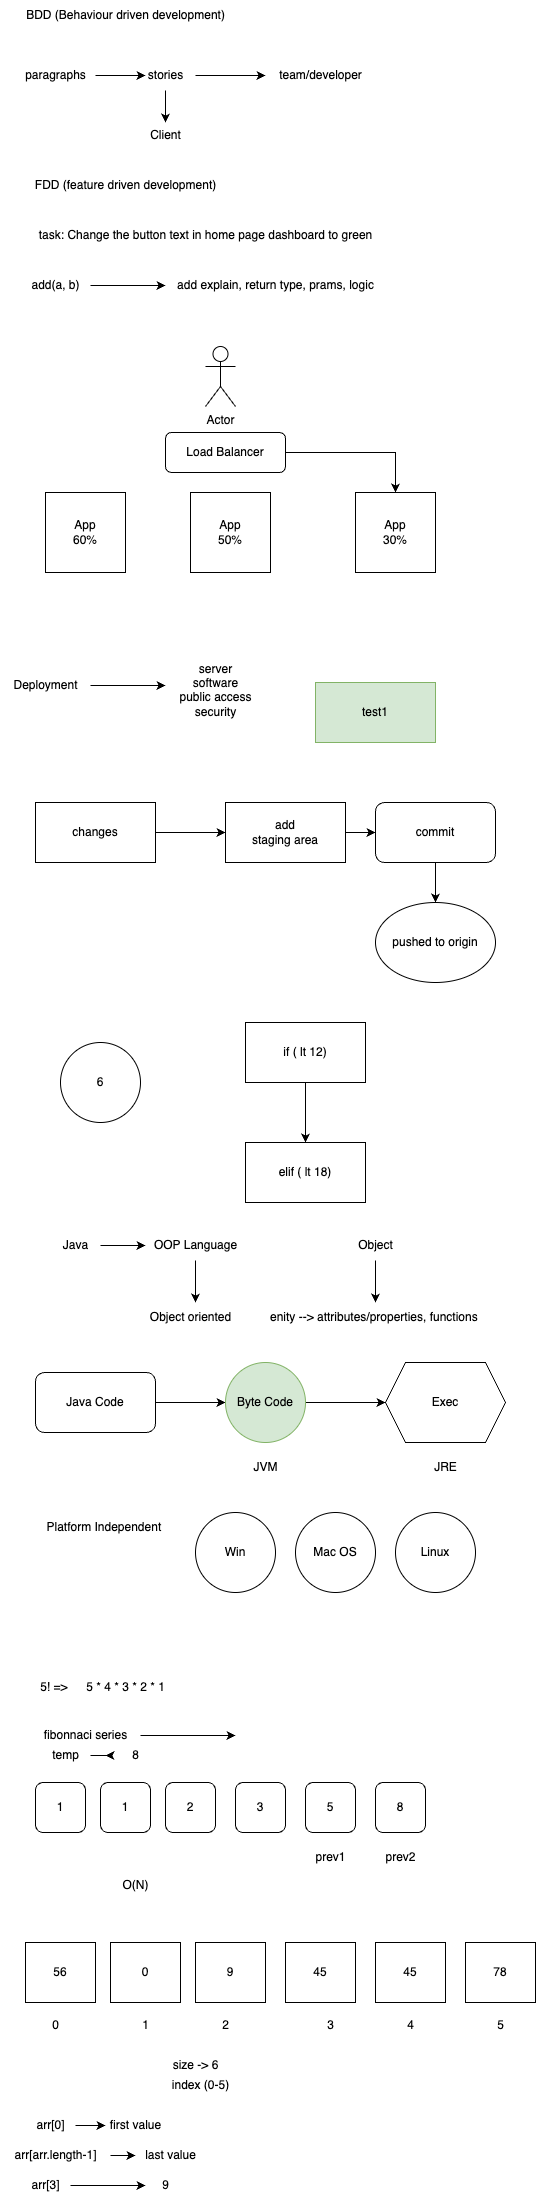
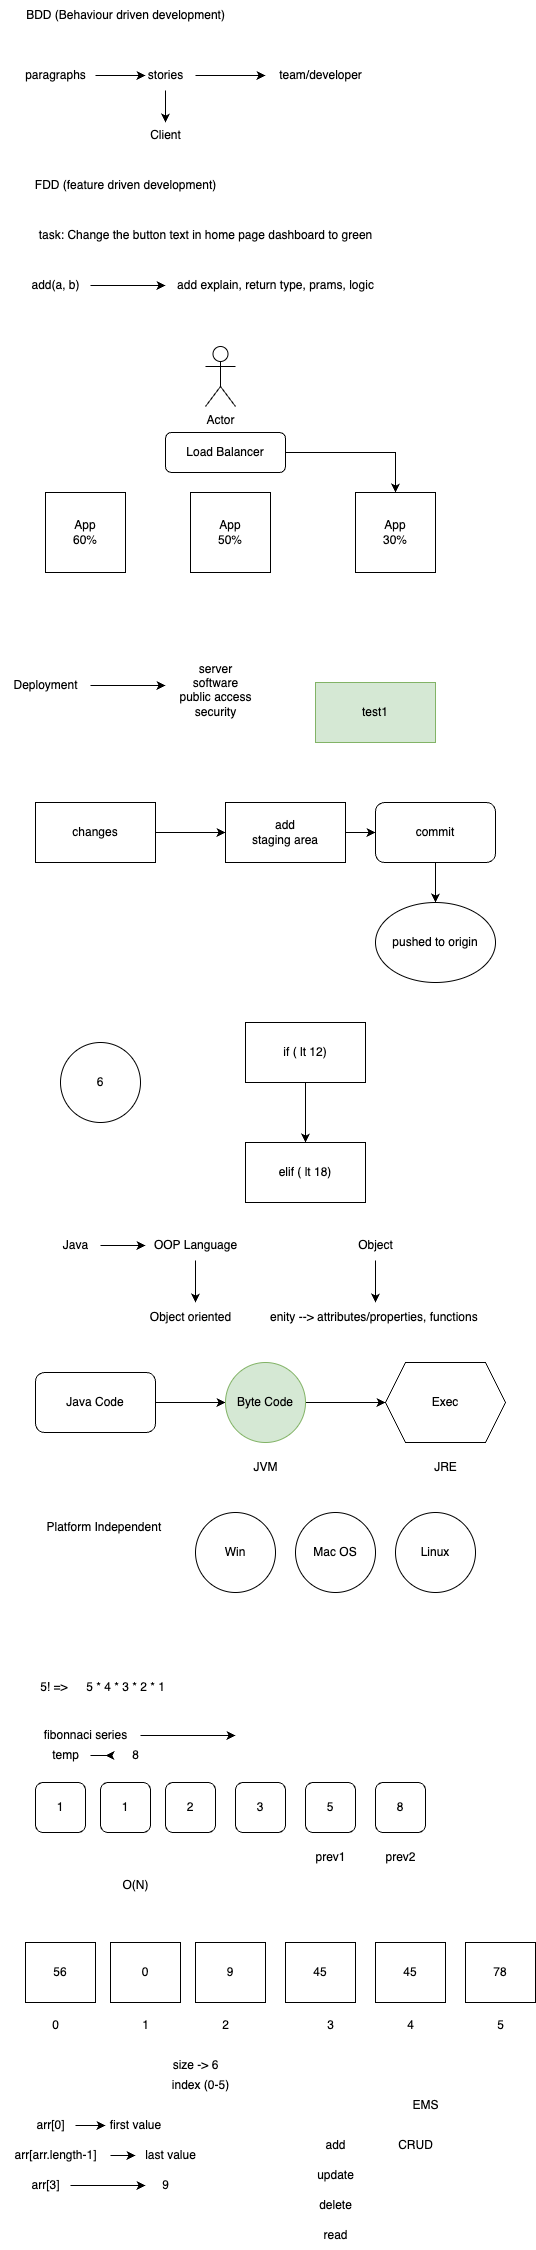
EMS, list, oops done

diff --git a/java practice/Collections/EMS/runner.java b/java practice/Collections/EMS/runner.java
@@ -1,0 +1,46 @@
+package Collections.EMS;
+
+import java.io.IOException;
+import java.util.ArrayList;
+import java.util.List;
+
+public class runner {
+    runner() {
+
+    }
+    public static void main(String[] args) throws IOException {
+        List<emp> list = new ArrayList<>();
+        console con = new console();
+        Listdb db = new Listdb();
+        while (true) {
+            switch (con.showOptions()) {
+                case 1:
+                    db.getAllEmp(list);
+                    break;
+                case 2:
+                    emp e = con.acceptEmp();
+                    boolean inserted = db.addEmp(list, e);
+                    if(inserted) {
+                        System.out.println("Employee inserted successfully");
+                        System.out.println("Employee ID: " + e.id + "\n");
+                    } else {
+                        System.out.println("Error while inserting the employee");
+                    }
+                    break;
+                case 3:
+                    db.updateEmp();
+                    break;
+                case 4:
+                    db.deleteEmp();
+                    break;
+                case 5:
+                    System.out.println("Thank you for using our Employee Management System!");
+                    System.exit(0);
+                    break;
+                default:
+                    System.out.println("Wrong choice");
+                    break;
+            }
+        }
+    }
+}

diff --git a/java practice/Collections/EMS/console.java b/java practice/Collections/EMS/console.java
@@ -1,0 +1,46 @@
+package Collections.EMS;
+
+import java.io.BufferedReader;
+import java.io.IOException;
+import java.io.InputStreamReader;
+import java.util.Scanner;
+import java.util.UUID;
+
+public class console {
+    public int showOptions() {
+        Scanner sc = new Scanner(System.in);
+
+        System.out.println("Employee Management System:");
+        System.out.println("1. Read All Employee's");
+        System.out.println("2. Add Employee");
+        System.out.println("3. Update Employee");
+        System.out.println("4. Delete Employee");
+        System.out.println("5. Exit");
+
+        System.out.print("Enter your choice: ");
+        int choice = sc.nextInt();
+        return choice;
+    }
+
+    public emp acceptEmp() throws IOException {
+        InputStreamReader ir = new InputStreamReader(System.in);
+        BufferedReader br = new BufferedReader(ir);
+        
+        System.out.print("Enter the emp name: ");
+        String name = br.readLine();
+
+        System.out.print("Enter the emp pos: ");
+        String pos = br.readLine();
+
+        System.out.print("Enter the salary: ");
+        double salary = Double.parseDouble(br.readLine());
+
+        System.out.print("Enter the age: ");
+        int age = Integer.parseInt(br.readLine());
+
+        String id = UUID.randomUUID().toString();
+
+        emp e = new emp(id, name, pos, salary, age);
+        return e;
+    }
+}

diff --git a/java practice/Collections/listex.java b/java practice/Collections/listex.java
@@ -1,0 +1,58 @@
+package Collections;
+
+import java.util.ArrayList;
+import java.util.Iterator;
+import java.util.List;
+import java.util.function.Consumer;
+
+public class listex {
+    public static void main(String[] args) {
+        List<Integer> list = new ArrayList<>();
+        list.add(20);
+        list.add(34);
+        list.add(2);
+        list.add(90);
+        list.add(5);
+
+        // list.remove(20);
+        // list.remove(4);
+
+        // print our list -->
+        // 1. for-each
+        for (Integer i : list) {
+            // System.out.println(i.intValue());
+        }
+        // 2. Iterator
+        Iterator<Integer> it = list.iterator();
+        while (it.hasNext()) {
+            it.next();
+            // System.out.println(it.next());
+        }
+        // 3. for-i loop
+        for (int i = 0; i < list.size(); i++) {
+            // System.out.println(list.get(i));
+        }
+
+        // 4. strings
+        // System.out.println(list.toString());
+
+        // 5. foreach
+        myconsumer obj = new myconsumer();
+        // list.forEach(obj);
+
+        // 6. foreach lambda
+        // list.forEach(e -> System.out.println(e));
+
+        // 7. foreach optmised
+        list.forEach(System.out::println);
+
+    }
+
+}
+
+class myconsumer implements Consumer<Integer> {
+    @Override
+    public void accept(Integer t) {
+        System.out.println(t);
+    }
+}

diff --git a/java practice/Collections/EMS/emp.java b/java practice/Collections/EMS/emp.java
@@ -1,0 +1,23 @@
+package Collections.EMS;
+
+public class emp {
+    String id; // unique
+    String name;
+    String position;
+    double salary;
+    int age;
+
+    public emp(String id, String name, String position, double salary, int age) {
+        this.id = id;
+        this.name = name;
+        this.position = position;
+        this.salary = salary;
+        this.age = age;
+    }
+
+    @Override
+    public String toString() {
+        return "emp [id=" + id + ", name=" + name + ", position=" + position + ", salary=" + salary + ", age=" + age
+                + "]";
+    }    
+}

diff --git a/java practice/Collections/EMS/Listdb.java b/java practice/Collections/EMS/Listdb.java
@@ -1,0 +1,25 @@
+package Collections.EMS;
+
+import java.util.List;
+
+public class Listdb {
+    // Add an employee
+    public boolean addEmp(List<emp> list, emp e) {
+        return list.add(e);
+    }
+
+    // fetch all employee
+    public void getAllEmp(List<emp> list) {
+        list.forEach(e -> System.out.println(e.toString()));
+    }
+
+    // delete an employee
+    public void deleteEmp() {
+
+    }
+
+    // update an employee
+    public void updateEmp() {
+
+    }
+}

diff --git a/java practice/interfacex.java b/java practice/interfacex.java
@@ -1,0 +1,23 @@
+public interface interfacex {
+    // only method decl, but no body
+    public void walk();
+    public void talk();
+    public void eat();
+}
+
+class inner implements interfacex {
+    @Override
+    public void walk() {
+        System.out.println("walk");
+    }
+
+    @Override
+    public void talk() {
+        System.out.println("talk");    
+    }
+
+    @Override
+    public void eat() {
+        System.out.println("eat");    
+    }
+}

diff --git a/java practice/op.java b/java practice/op.java
@@ -1,0 +1,24 @@
+public class op extends dimension {
+    public int up() {
+        right();
+        left();
+        return 1;
+    }   
+    public int down() {
+        return -1;
+    }
+
+    public static void main(String[] args) {
+        
+    }
+}
+
+class dimension {
+    public double right() {
+        return Math.sin(1);
+    }
+
+    public double left() {
+        return Math.cos(-1);
+    }
+}

diff --git a/java practice/interfacerunner.java b/java practice/interfacerunner.java
@@ -1,0 +1,11 @@
+public class interfacerunner {
+    public static void main(String[] args) {
+        in obj = () -> System.out.println("Running");
+        obj.run();
+    }
+}
+
+@FunctionalInterface
+interface in {
+    public void run();
+}
